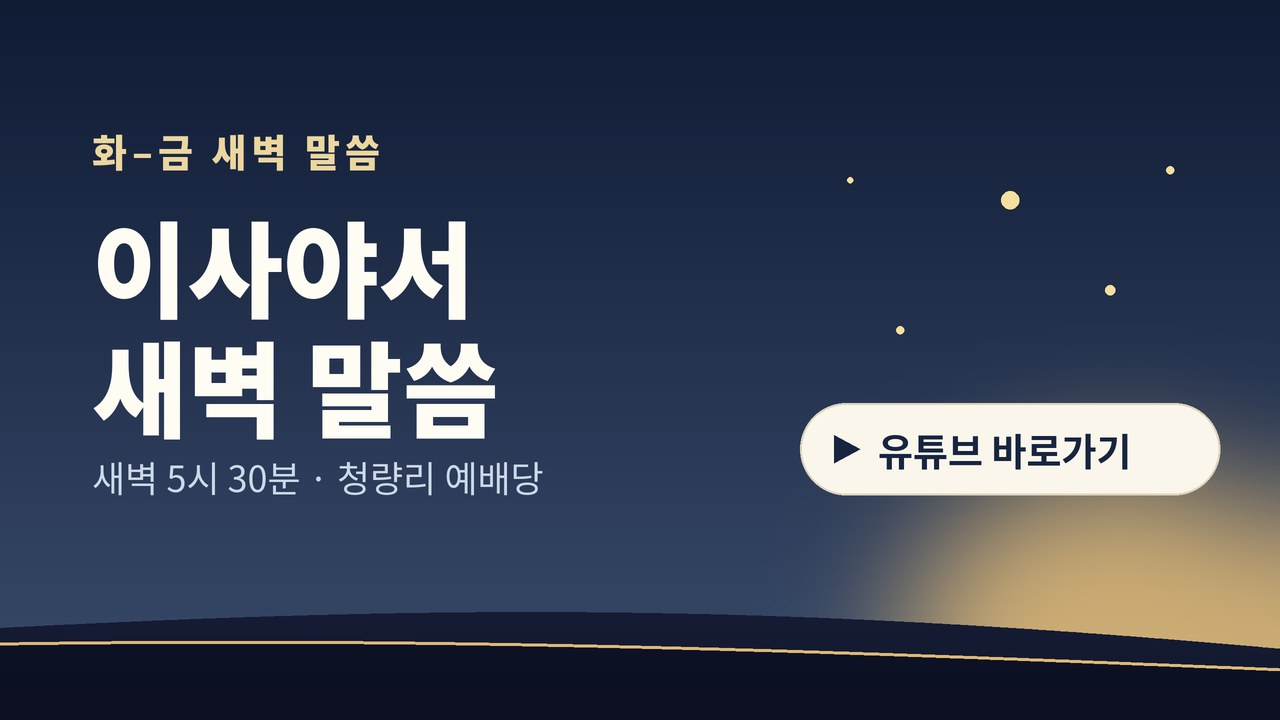
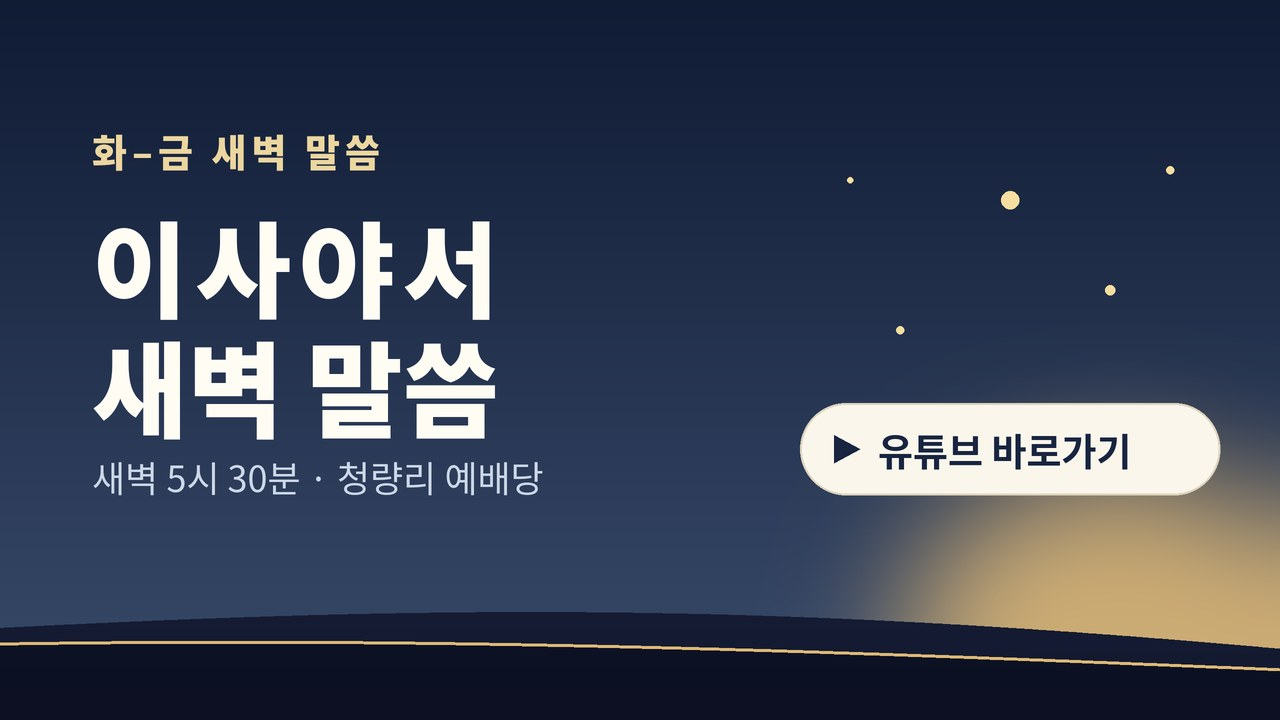
새벽 배너: 이사야서·새벽 말씀 끝줄 맞춤
Claude-Session: https://claude.ai/code/session_01SUQQLDh1VZ9DJkmDKHFesn

Changed region(s): [[0.125, 0.3056, 0.4062, 0.4583]]

diff --git a/index.html b/index.html
@@ -718,7 +718,7 @@ function kidsBanner() {   // 어린이 채널 배너(표지 1장) → 채널로 
 const SUNDAY_LIST = 'https://www.youtube.com/playlist?list=PLXuDDjm7EXZo', DAWN_LIST = 'https://www.youtube.com/playlist?list=PLderqM7aVwPk';   // 재생목록 주소를 받으면 여기만 바꾼다
 // 주일 카드: 절기별 배너(마지막 날짜까지). 이후는 기본 배너. 미리보기는 주소 끝에 ?d=2026-12-06
 const SUNDAY_SEASON = [['2026-11-22', 'sunday-creation'], ['2026-12-23', 'sunday-advent'], ['2026-12-30', 'sunday-christmas'], ['2027-01-03', 'sunday-newyear'], ['2027-02-09', 'sunday-epiphany'], ['2027-03-27', 'sunday-lent']];
-const IMG_V = '?v=20261119k';   // 배너 이미지를 바꿀 때 이 날짜도 바꾼다(휴대폰에 남은 옛 이미지 방지)
+const IMG_V = '?v=20261119m';   // 배너 이미지를 바꿀 때 이 날짜도 바꾼다(휴대폰에 남은 옛 이미지 방지)
 function listCard(href, src, label) {   // 가로 배너 한 장 → 유튜브 재생목록
   const t = make('a', 'vthumb kbanner'); t.href = href; t.target = '_blank'; t.rel = 'noopener'; t.setAttribute('aria-label', label);
   const img = make('img'); img.src = src + IMG_V; img.alt = label; img.loading = 'lazy'; img.decoding = 'async'; t.append(img); return t;
